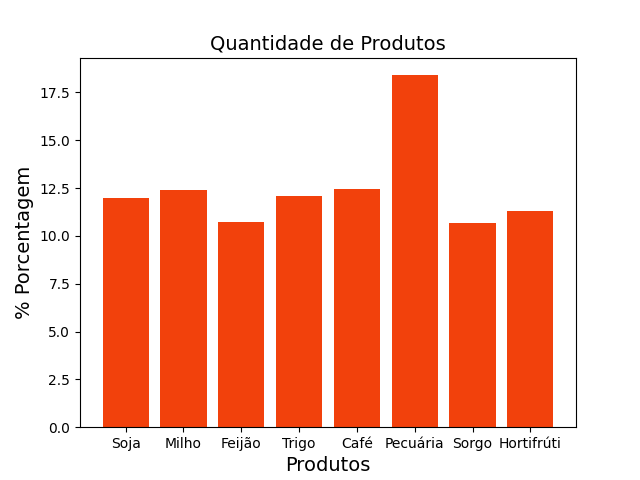
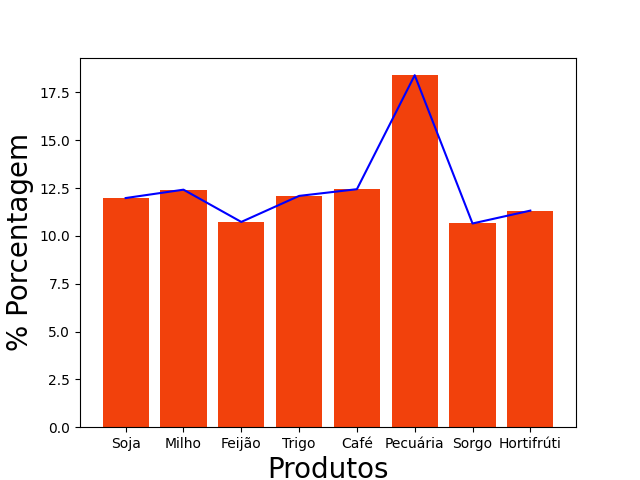
adicionada dashboard

diff --git a/App/Templates/dashboard.html b/App/Templates/dashboard.html
@@ -5,32 +5,114 @@
 
 {% block content %}
 <div class="wrapper">
-    {%for producer in producers%}  
-    {{producer}}
-    {%endfor%}
     <div class="row">
         <div class="col text-center">
-            <h1>plot1</h1>
-        <img class="hover" src="/static/images/plot1.png" style="width:30rem" alt="images">
-
+            <h2> Quantidade de Produtos </h2>
+            <div class="p-2">
+                <img class="zoom" src="/static/images/plot1.png" type="button" 
+                    data-toggle="modal" 
+                    data-target="#plot1" 
+                    style="width:30rem;border:1px solid black" alt="images">
+            </div>
         </div>
         <div class="col text-center">
-            <h1>plot2</h1>
-            <img src="/static/images/plot2.png" style="width:30rem" alt="images">
-
+            <h2>Agrotóxicos Usados</h2>
+            <div class="p-2">
+                <img class="zoom" src="/static/images/plot2.png" type="button" 
+                    data-toggle="modal" 
+                    data-target="#plot2" 
+                    style="width:30rem;border:1px solid black" alt="images">
+            </div>
         </div>
     </div>
     <div class="row">
         <div class="col text-center">
-            <h1>plot3</h1>
-            <img src="/static/images/plot3.png" style="width:30rem" alt="images">
-
+            <h2>Porcentagem Dos Produtos Usados</h2>
+            <div class="p-2">
+                <img class="zoom" src="/static/images/plot3.png" type="button" 
+                    data-toggle="modal" 
+                    data-target="#plot3" 
+                    style="width:30rem;border:1px solid black" alt="images">
+            </div>
         </div>
         <div class="col text-center">
-            <h1>plot4</h1>
-            <img src="/static/images/plot4.png" style="width:30rem" alt="images">
+            <h2>Porcentagem Dos Agrotóxicos Usados</h2>
+            <div class="p-2">
+                <img class="zoom" src="/static/images/plot4.png" type="button" 
+                    data-toggle="modal" 
+                    data-target="#plot4" 
+                    style="width:30rem;border:1px solid black" alt="images">
+            </div>
+        </div>
+    </div>
 
+    
+    <!-- Modal -->
+    <div class="modal fade" id="plot1" tabindex="-1" role="dialog" aria-labelledby="modelTitleId" aria-hidden="true">
+        <div class="modal-dialog modal-lg" role="document">
+            <div class="modal-content">
+                <div class="modal-header">
+                    <h5 class="modal-title">Quantidade de produtos</h5>
+                        <button type="button" class="close" data-dismiss="modal" aria-label="Close">
+                            <span aria-hidden="true">&times;</span>
+                        </button>
+                </div>
+                <div class="modal-body">
+                    <img class="img-fluid" src="/static/images/plot1.png" style="width:100vw;height:80vh" alt="images">
+                </div>
+            </div>
+        </div>
+    </div>
+    <div class="modal fade" id="plot2" tabindex="-1" role="dialog" aria-labelledby="modelTitleId" aria-hidden="true">
+        <div class="modal-dialog modal-lg" role="document">
+            <div class="modal-content">
+                <div class="modal-header">
+                    <h5 class="modal-title">Agrotóxicos Usados</h5>
+                        <button type="button" class="close" data-dismiss="modal" aria-label="Close">
+                            <span aria-hidden="true">&times;</span>
+                        </button>
+                </div>
+                <div class="modal-body">
+                    <img class="img-fluid" src="/static/images/plot2.png" style="width:100vw;height:80vh" alt="images">
+                </div>
+            </div>
+        </div>
+    </div>
+    <div class="modal fade" id="plot3" tabindex="-1" role="dialog" aria-labelledby="modelTitleId" aria-hidden="true">
+        <div class="modal-dialog modal-lg" role="document">
+            <div class="modal-content">
+                <div class="modal-header">
+                    <h5 class="modal-title">Porcentagem Dos Produtos Usados</h5>
+                        <button type="button" class="close" data-dismiss="modal" aria-label="Close">
+                            <span aria-hidden="true">&times;</span>
+                        </button>
+                </div>
+                <div class="modal-body">
+                    <img class="img-fluid" src="/static/images/plot3.png" style="width:100vw;height:80vh" alt="images">
+                </div>
+            </div>
+        </div>
+    </div>
+    <div class="modal fade" id="plot4" tabindex="-1" role="dialog" aria-labelledby="modelTitleId" aria-hidden="true">
+        <div class="modal-dialog modal-lg" role="document">
+            <div class="modal-content">
+                <div class="modal-header">
+                    <h5 class="modal-title">Porcentagem Dos Agrotóxicos Usados</h5>
+                        <button type="button" class="close" data-dismiss="modal" aria-label="Close">
+                            <span aria-hidden="true">&times;</span>
+                        </button>
+                </div>
+                <div class="modal-body">
+                    <img class="img-fluid" src="/static/images/plot4.png" style="width:100vw;height:80vh" alt="images">
+                </div>
+            </div>
         </div>
     </div>
 </div>
+<style>
+.zoom:hover {
+  transform: scale(1.05); /* (150% zoom - Note: if the zoom is too large, it will go outside of the viewport) */
+  transition: 0.5s;
+}
+</style>
 {%endblock%}

diff --git a/App/Controllers/dashboardController.py b/App/Controllers/dashboardController.py
@@ -7,8 +7,10 @@ import numpy as np
 import pandas as pd
 
 
-FontSize = 14
+FontSize = 20
 def makeGraph():
+    # TIRAR ERRO DE RODAR O SERVIDOR TODA HORA.
+    plt.switch_backend('agg')
     con = MySQLdb.connect('50.116.112.31', 'tourvi45_aps', 'unip@2020')
     con.select_db('tourvi45_APS')
     cursor = con.cursor()
@@ -48,13 +50,17 @@ def makeGraph():
 
         for value in plot1_cult_qtd:
             porcent_culti.append((value / plot1_totalCulti[0]) * 100)
+        
+        porcent = pd.Series(porcent_culti)
+        print(porcent)
 
+        porcent.astype(float).plot(color = 'blue')
         plt.bar(plot1_labels,  porcent_culti, color = '#F2410C')
-        plt.title("Quantidade de Produtos", fontsize = FontSize)
+        # plt.tick_params(labelsize= 11)
         plt.xlabel("Produtos", fontsize = FontSize)
         plt.ylabel("% Porcentagem", fontsize = FontSize)
         plt.savefig("App/Static/images/plot1.png")
-        plt.show()
+        plt.close()
         
     # --------------------------------------------------------------------------------------------
 
@@ -69,14 +75,16 @@ def makeGraph():
         for valor in labels_pesticide:
             plot2_labels.append(valor[0])
 
-        sns.set_style("whitegrid")
+        porcent = pd.Series(plot2_agro_qtd)
+
         plt.figure(figsize=(10,8))
+        porcent.astype(float).plot(color = 'blue')
         plt.bar(plot2_labels,  plot2_agro_qtd, color = 'red')
-        plt.title("Agrotóxicos Usados", fontsize = FontSize)
+        plt.tick_params(labelsize= 15)
         plt.xlabel("Agrotóxicos", fontsize = FontSize)
         plt.ylabel("Quantidade", fontsize = FontSize)
         plt.savefig("App/Static/images/plot2.png")
-        plt.show()
+        plt.close()
 
 # --------------------------------------------------------------------------------------------
     def plot3():
@@ -96,10 +104,9 @@ def makeGraph():
             plot3_porcent_culti.append((value / plot3_totalCulti[0]) * 100)
         
         plt.pie(plot3_porcent_culti, labels= plot3_labels, autopct="%2.2f%%")
-        plt.title("Porcentagem Dos Produtos Usados", fontsize = FontSize)
         plt.legend(plot3_labels,bbox_to_anchor = [1, 1])
         plt.savefig("App/Static/images/plot3.png")
-        plt.show()
+        plt.close()
 
 # --------------------------------------------------------------------------------------------
     def plot4():
@@ -119,10 +126,9 @@ def makeGraph():
             plot4_porcent_agri.append((value / plot4_totalagri[0][0]) * 100)
         
         plt.pie(plot4_porcent_agri, labels= plot4_labels, autopct="%2.2f%%")
-        plt.title("Porcentagem Dos Agrotóxicos Usados", fontsize = FontSize)
         plt.legend(plot4_labels, bbox_to_anchor = [1, 1])
         plt.savefig("App/Static/images/plot4.png")
-        plt.show()
+        plt.close()
         
     plot1()
     plot2()
